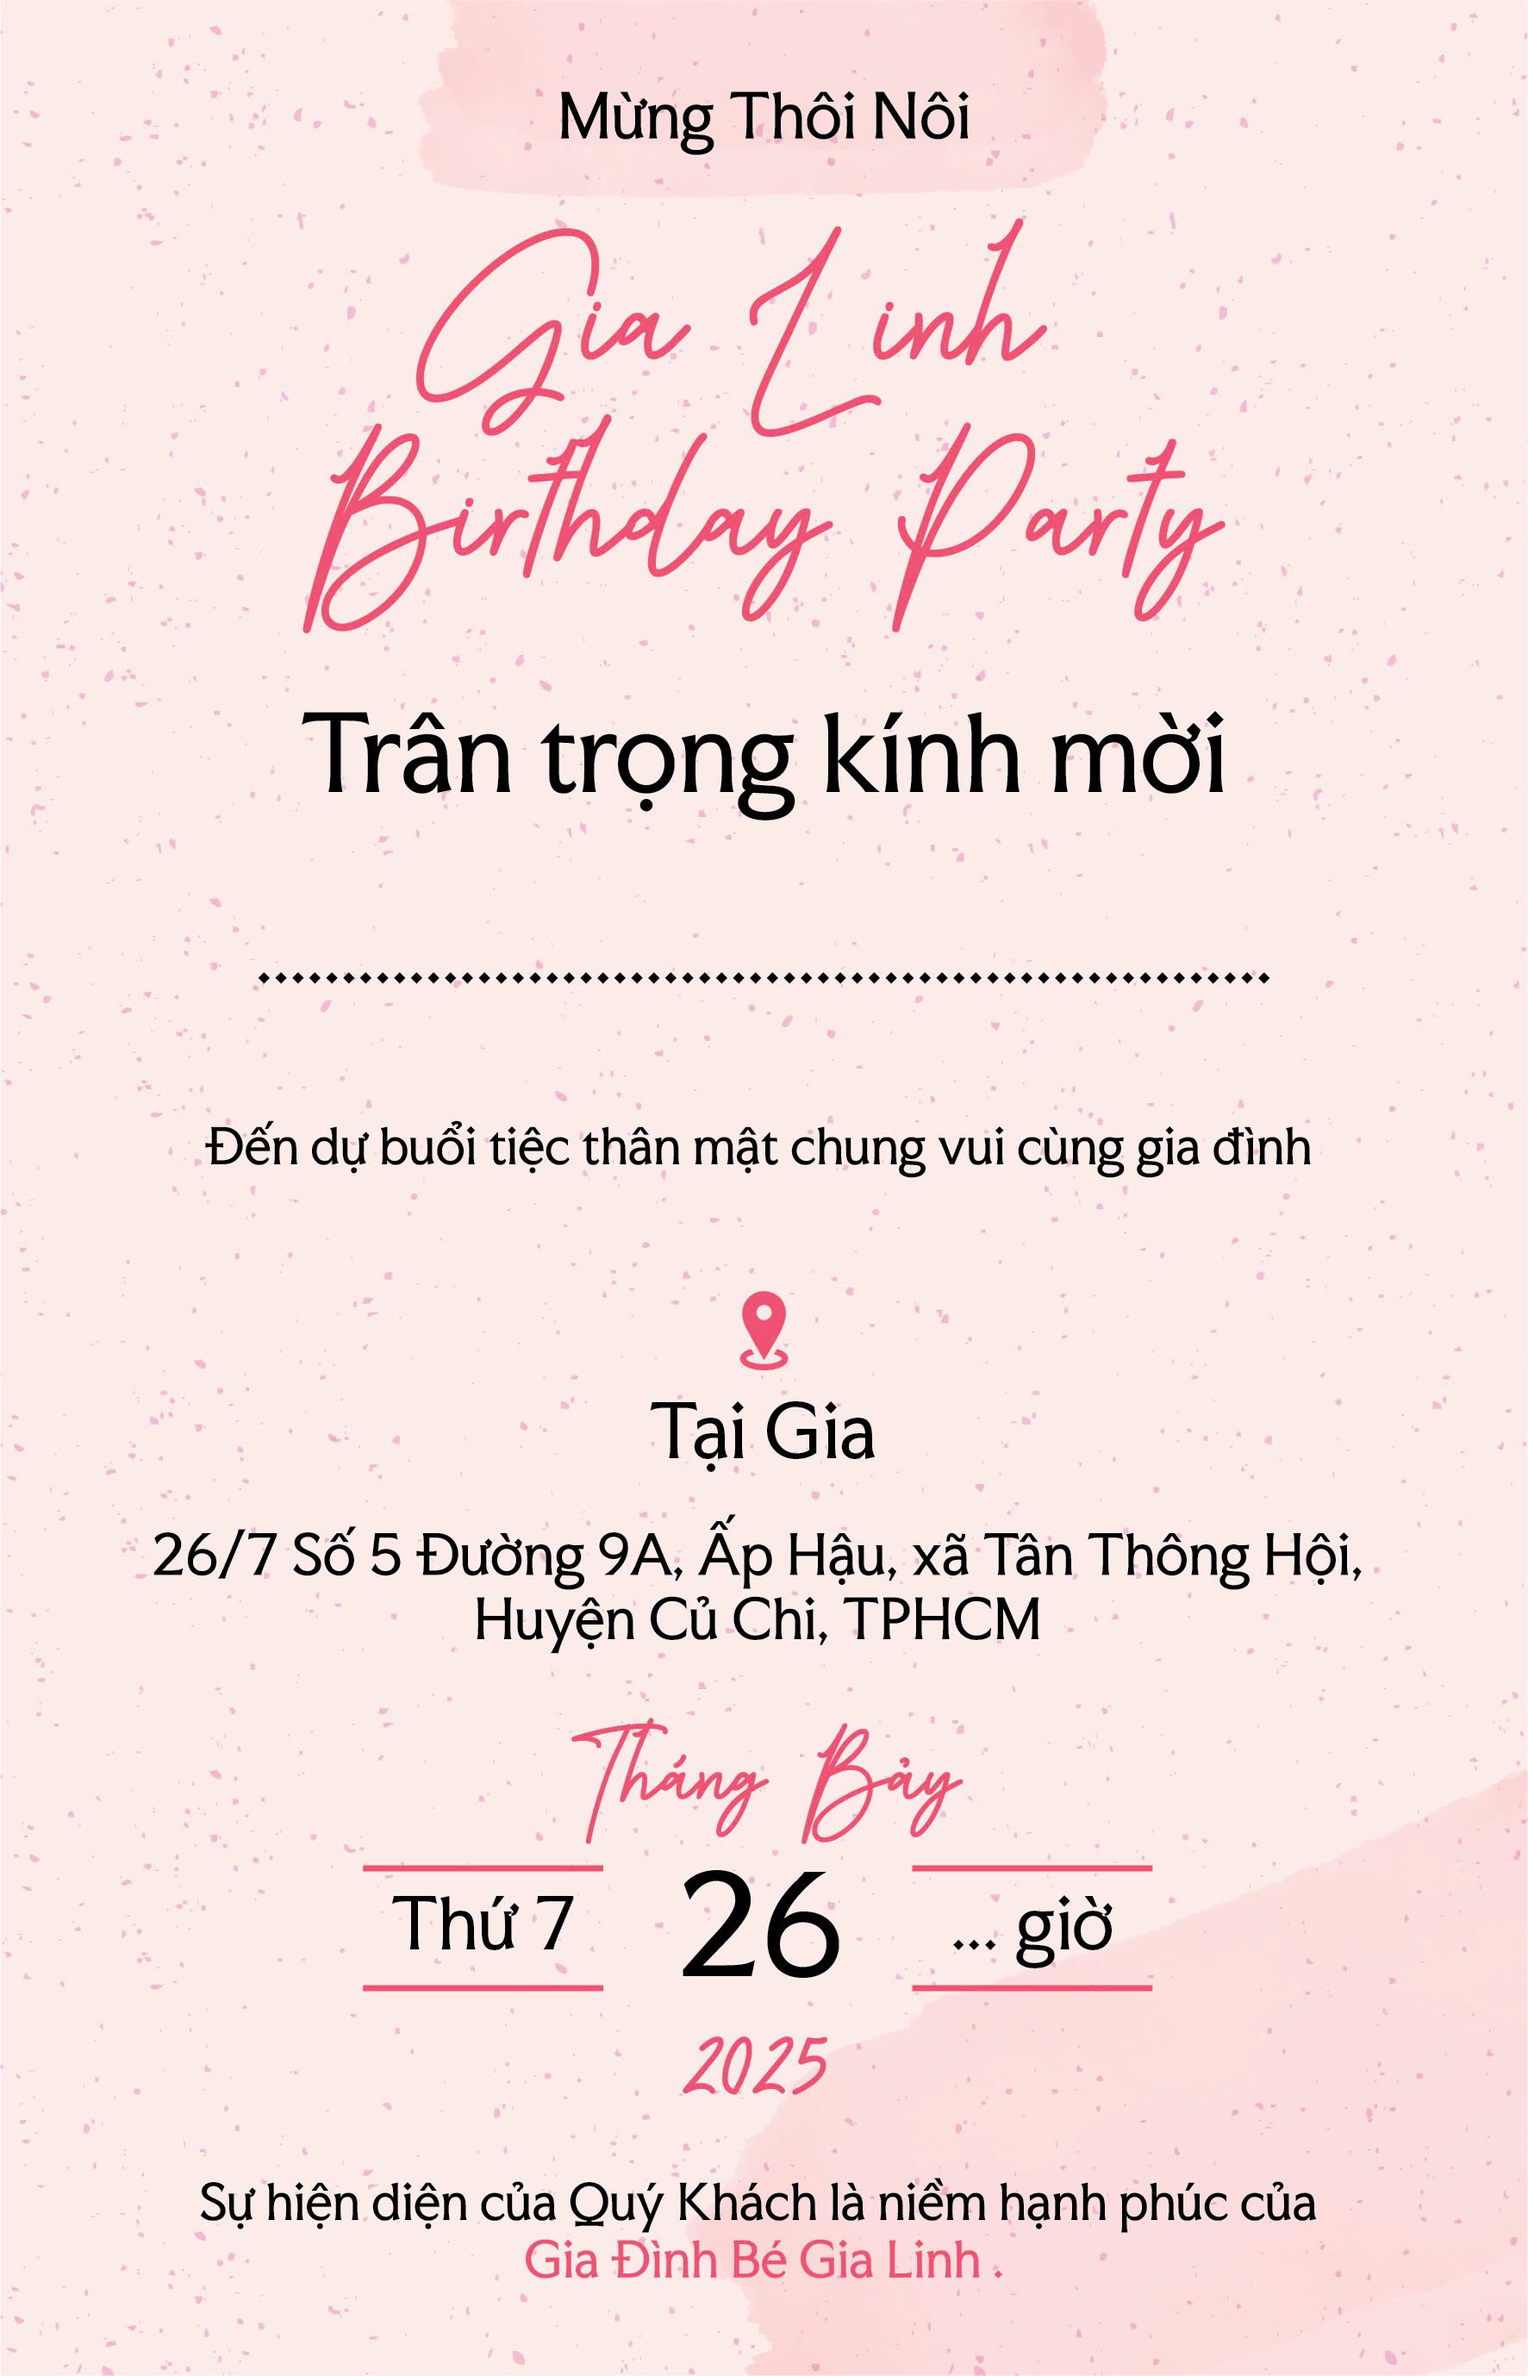
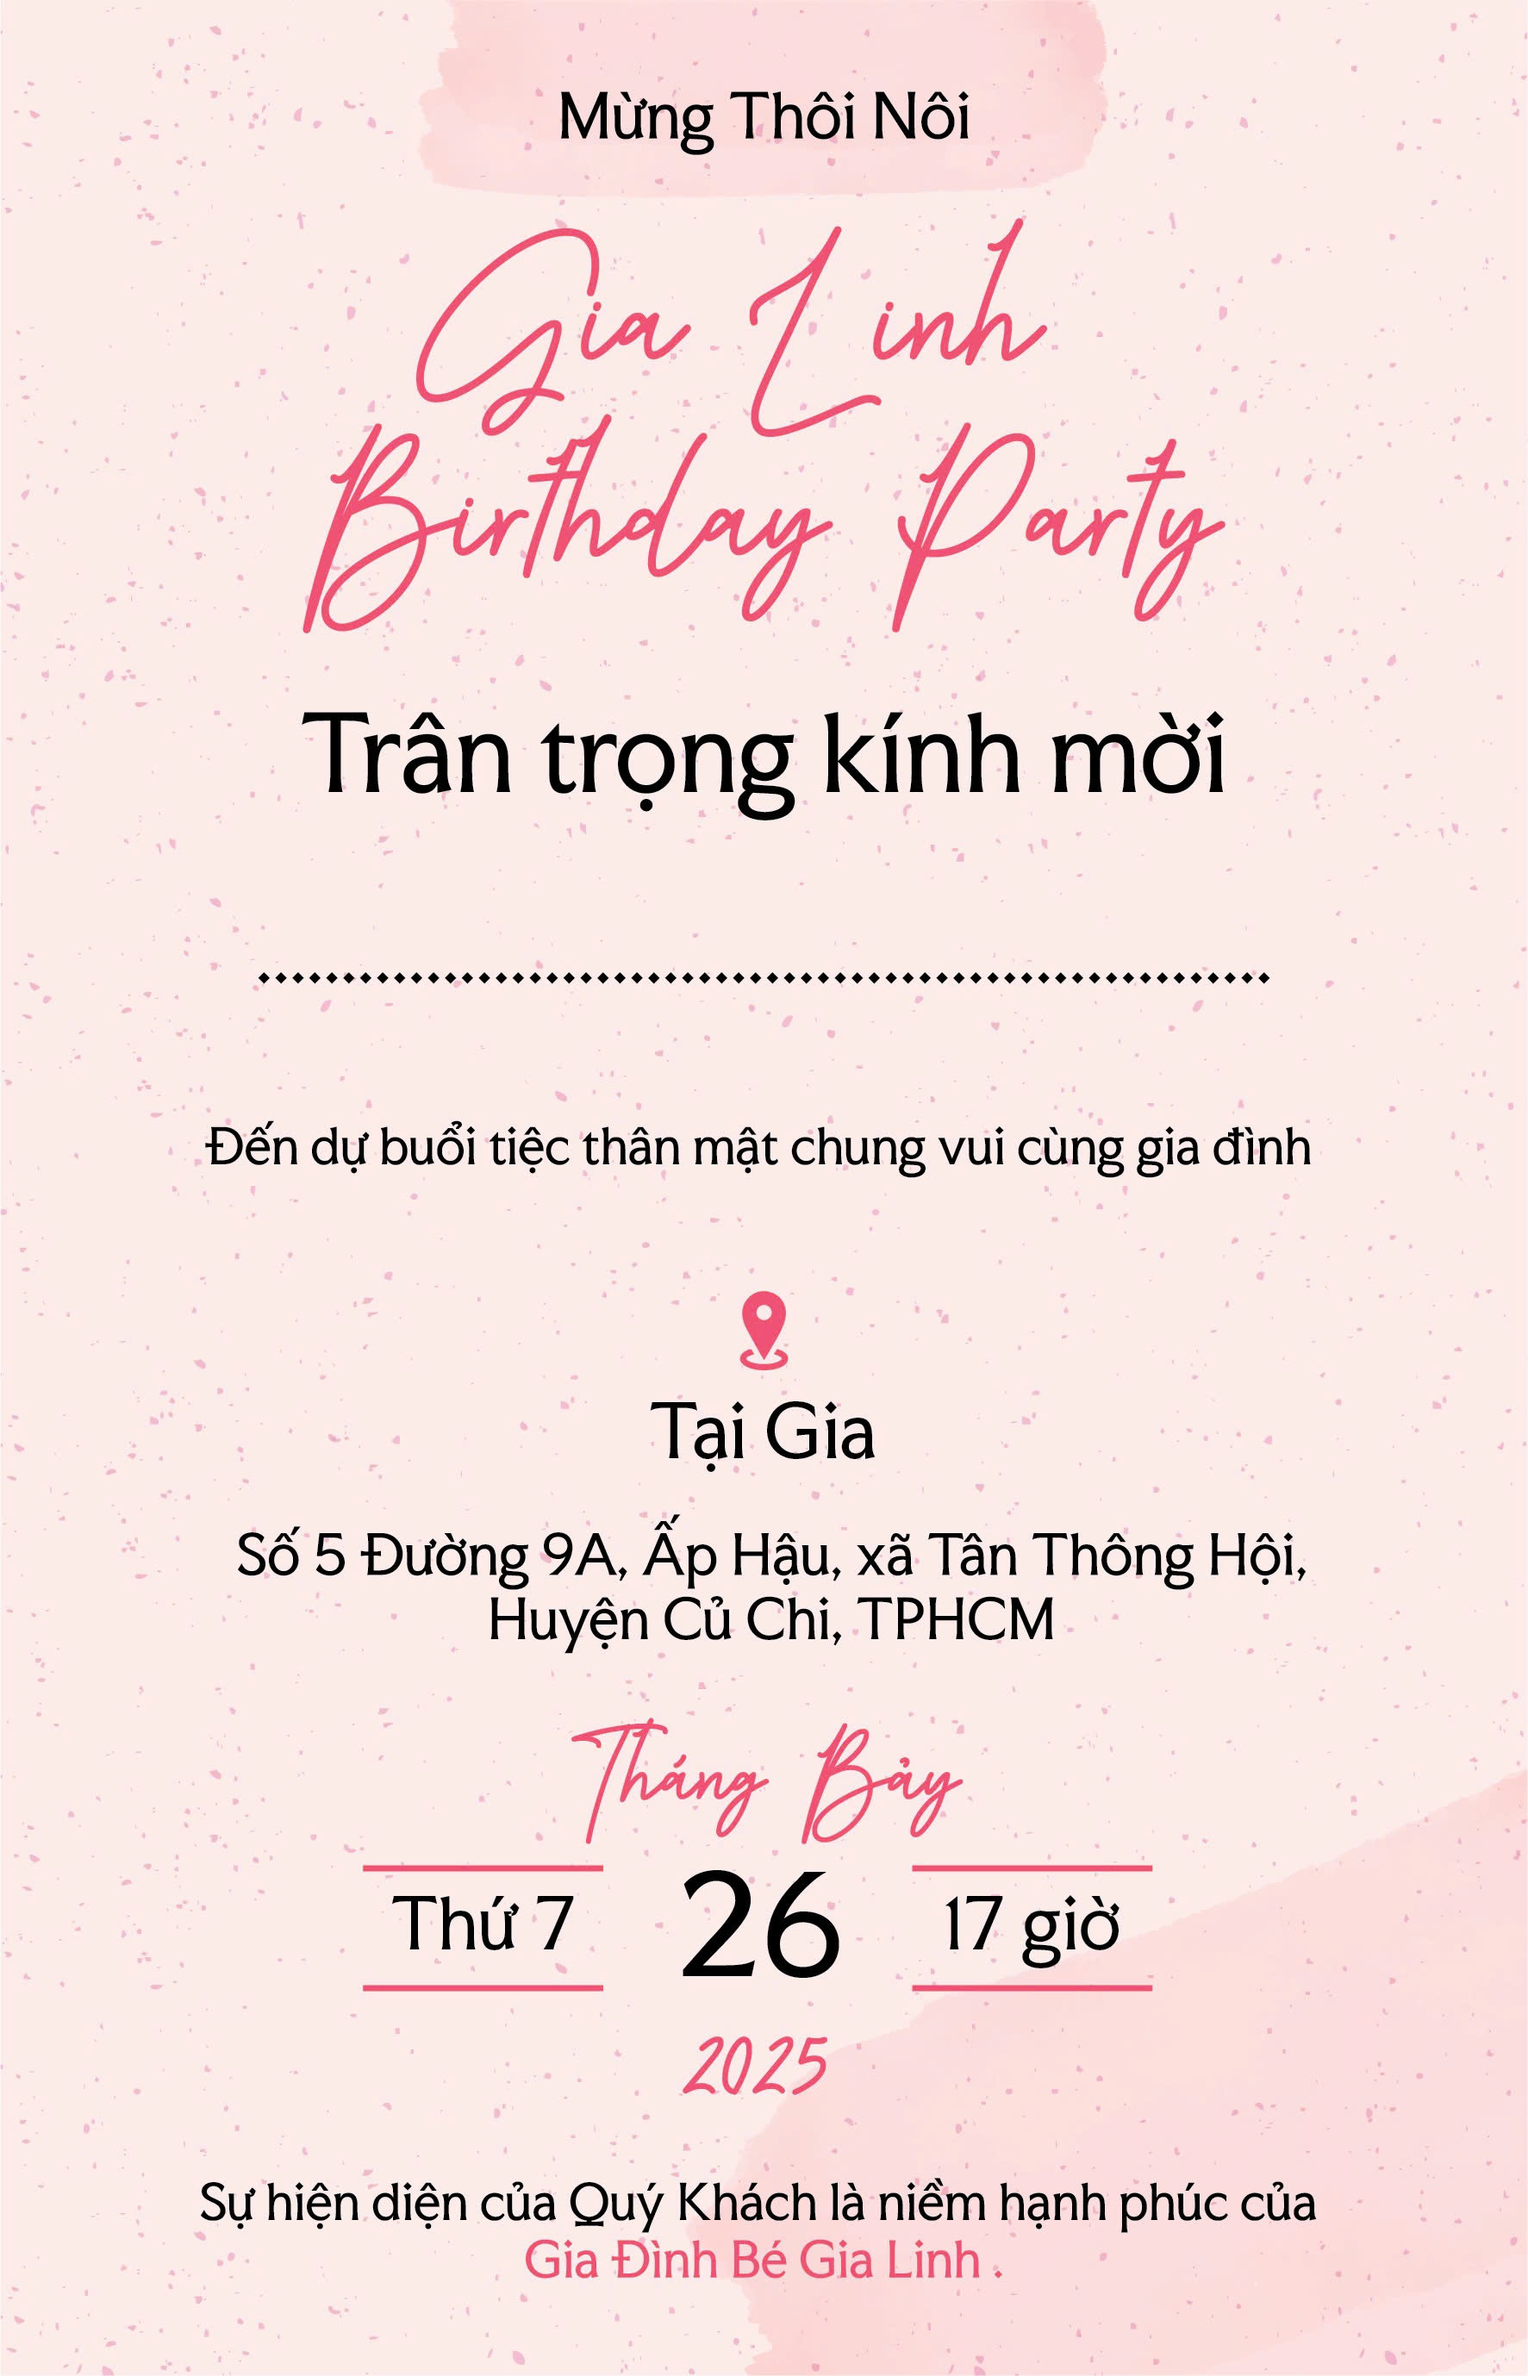
Update index.html
Update index.html

Changed region(s): [[0.1241, 0.6239, 0.8686, 0.7174], [0.6204, 0.7798, 0.7445, 0.8422]]

diff --git a/index.html b/index.html
@@ -346,7 +346,7 @@
 
         .venue-section {
             background: #f9f5f5;
-            padding: 15px;
+            padding: 25px;
             border-radius: 15px;
             margin: 20px 0;
             text-align: center;
@@ -676,7 +676,7 @@
                     <div class="month-label">Tháng Bảy</div>
                     <div class="day-label">Thứ 7</div>
                     <div class="event-date">26</div>
-                    <div class="time-label">... giờ</div>
+                    <div class="time-label">17 giờ</div>
                     <div class="year">2025</div>
                 </div>
 
